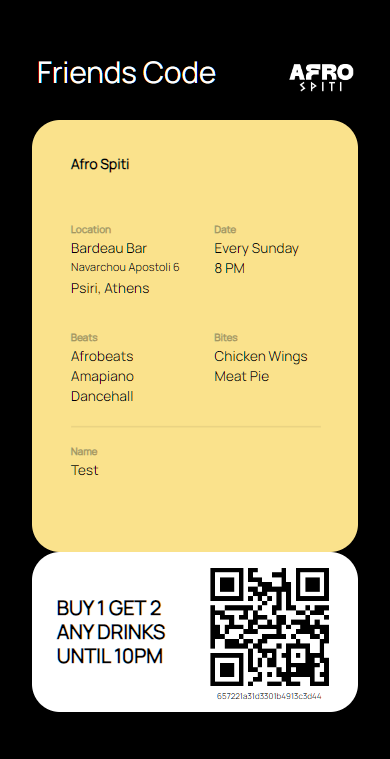
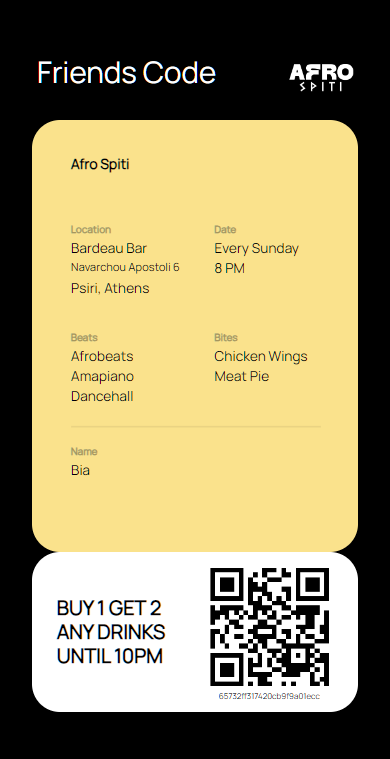
update

Changed region(s): [[0.5231, 0.7273, 0.8615, 0.9394], [0.1846, 0.6061, 0.2462, 0.6364]]

diff --git a/client/src/Components/FriendsCode/FriendsCode.js b/client/src/Components/FriendsCode/FriendsCode.js
@@ -58,7 +58,7 @@ function FriendsCode({ user }) {
       />
       <h1 className="friendscode-title">Invite your Friends!</h1>
       <p className="friendscode-description">
-        with this Friends Code they can Buy 1 Get 2, until 11PM
+        with this Friends Code they can Buy 1 Get 2, until 10PM
       </p>
 
       <div className="friendscode-admin">
